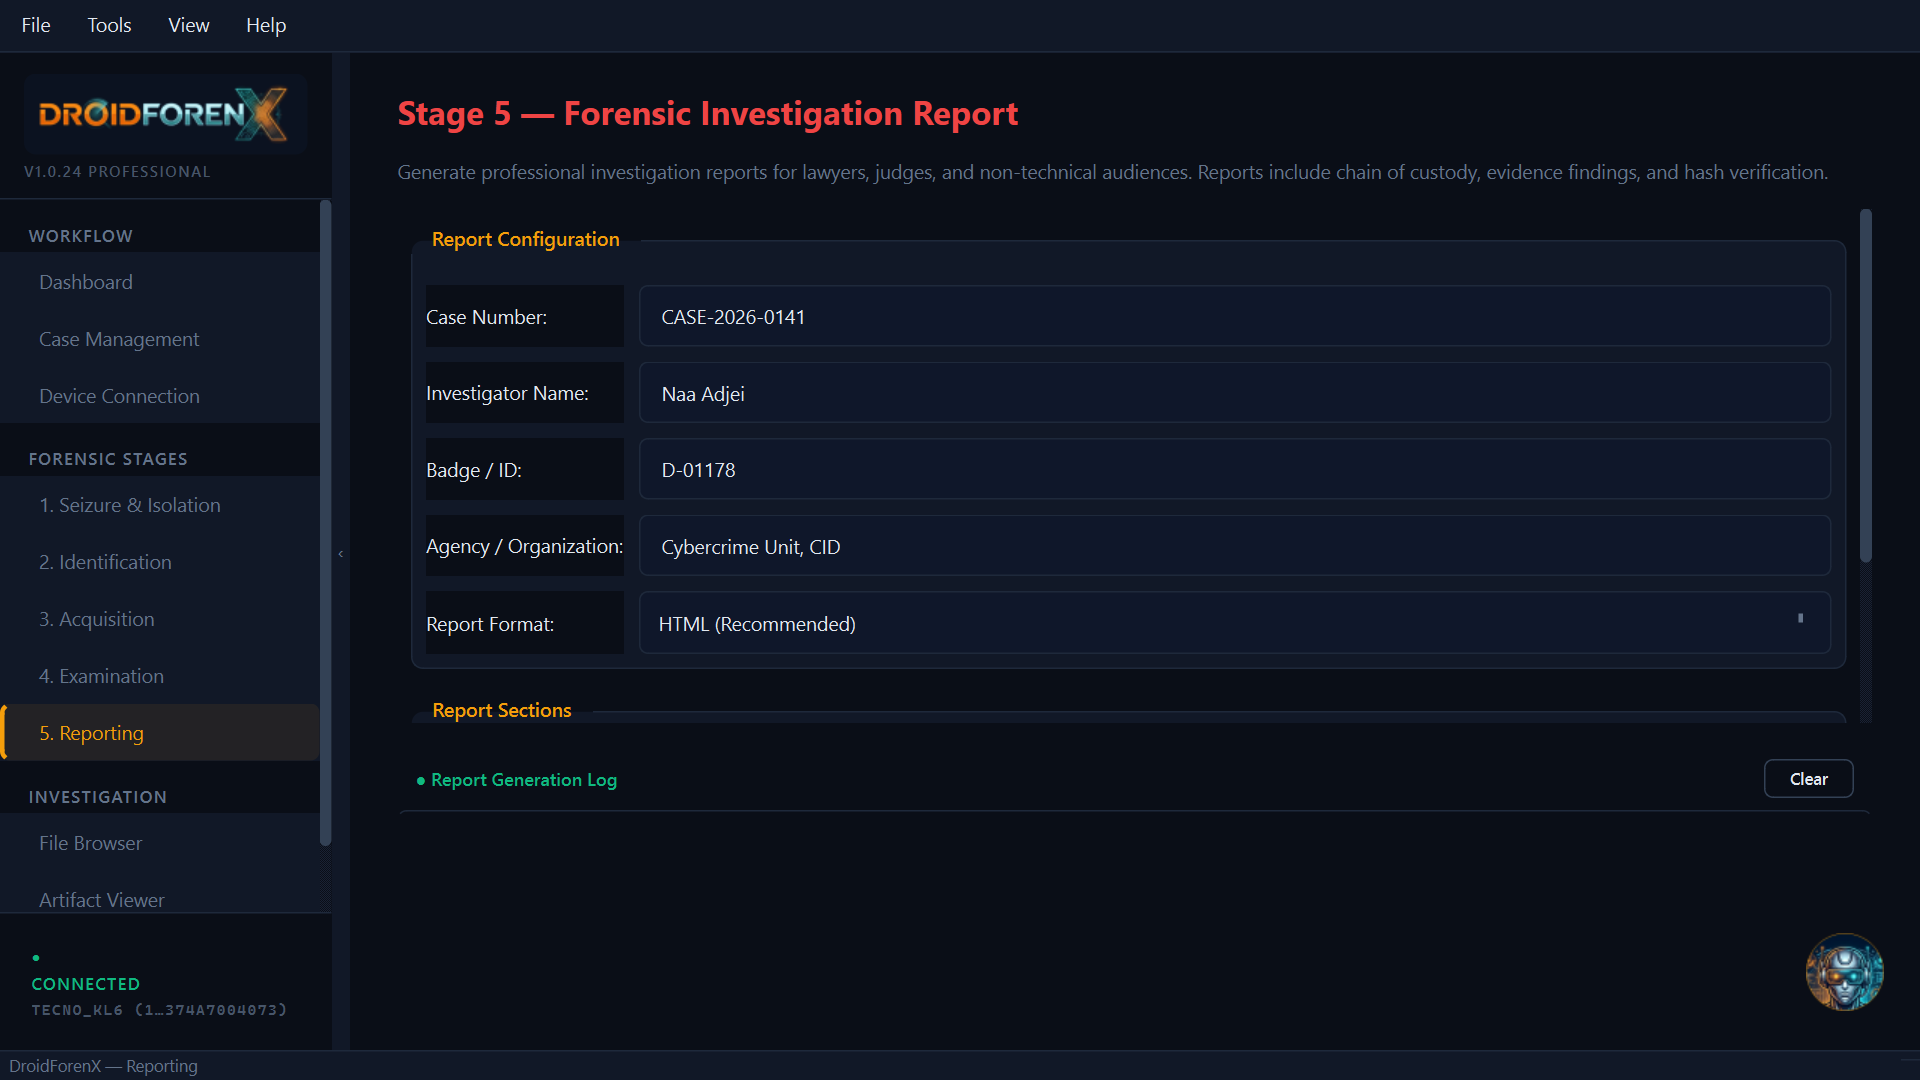
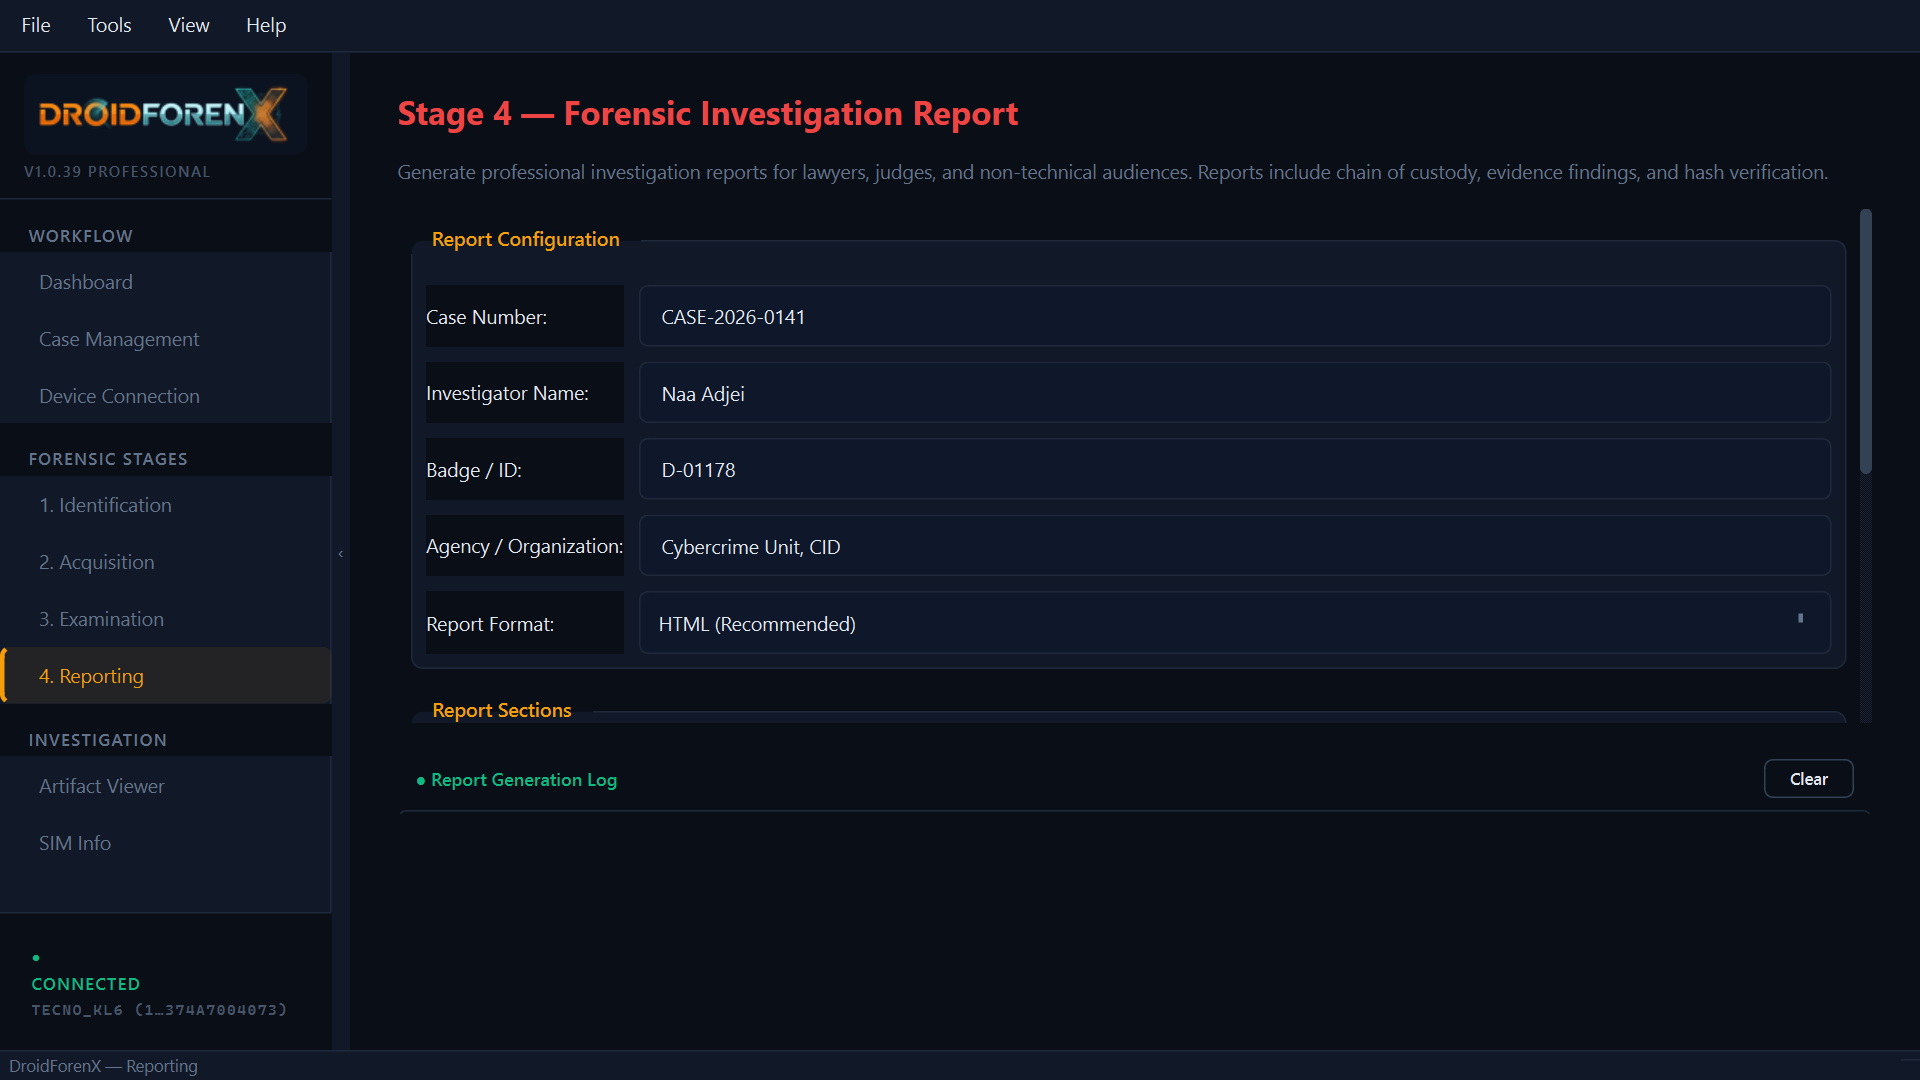
Docs: refresh v1.0.39 acquisition and report screenshots

diff --git a/tools/capture_docs.py b/tools/capture_docs.py
@@ -253,6 +253,17 @@ def capture(window, app, wanted: set[str], with_device: bool, tests_log: Path | 
         pump(app, 0.8)
         save(window, "acquisition")
 
+    def shot_acquisition_actions():
+        go(4)
+        page = window.acquire_page
+        page.level_combo.setCurrentIndex(0)
+        page.hash_combo.setCurrentIndex(0)
+        from PyQt6.QtWidgets import QScrollArea
+        for area in page.findChildren(QScrollArea):
+            area.verticalScrollBar().setValue(area.verticalScrollBar().maximum())
+        pump(app, 0.8)
+        save(window, "acquisition-actions")
+
     def shot_artifacts():
         go(8)
         page = window.artifacts_page
@@ -326,16 +337,31 @@ def capture(window, app, wanted: set[str], with_device: bool, tests_log: Path | 
         pump(app, 0.8)
         save(window, "reporting")
 
+    def shot_report_sections():
+        go(6)
+        page = window.report_page
+        page.case_input.setText("CASE-2026-0141")
+        page.examiner_input.setText("Naa Adjei")
+        page.badge_input.setText("D-01178")
+        page.org_input.setText("Cybercrime Unit, CID")
+        from PyQt6.QtWidgets import QScrollArea
+        for area in page.findChildren(QScrollArea):
+            area.verticalScrollBar().setValue(min(220, area.verticalScrollBar().maximum()))
+        pump(app, 0.8)
+        save(window, "report-sections")
+
     shots.update({
         "dashboard": shot_dashboard,
         "cases": shot_cases,
         "device": shot_device,
         "acquisition": shot_acquisition,
+        "acquisition-actions": shot_acquisition_actions,
         "artifacts": shot_artifacts,
         "sim": shot_sim,
         "gallery": shot_gallery,
         "create-image": shot_create_image,
         "report": shot_report,
+        "report-sections": shot_report_sections,
     })
 
     needs_device = {"device", "acquisition", "artifacts", "sim", "gallery",

diff --git a/README.md b/README.md
@@ -46,11 +46,12 @@ copy, and records an append-only chain of custody for every action.
 
 ## Screenshots
 
-Every frame below is the running application, not a mock-up, captured on
-**25 October 2026** with a **TECNO KL6** (Android 14 / API 34, unrooted)
-attached over ADB. The case is a throwaway demonstration case, seeded into a
-temporary database; the artifact counts, contacts, messages and calls are read
-from the phone. Click an image to open it at full size.
+Every frame below is from the running application, not a mock-up. Device and
+artifact views were captured with a **TECNO KL6** (Android 14 / API 34,
+unrooted) attached over ADB. Other screens use a throwaway demonstration case
+seeded into a temporary database. The Acquisition and Reporting screenshots
+were refreshed for **v1.0.39** on **4 November 2026**; those views do not pull
+personal device content. Click an image to open it at full size.
 
 `tools/capture_docs.py` takes them: it points `database.DB_PATH` at a temporary
 directory, seeds a case, shows the real window and grabs it with
@@ -82,18 +83,25 @@ that produced the result.
 
 **Acquisition** — pick an extraction level and the loaders to run. Level 1 is
 logical (contacts, SMS, calls, calendar, app data, ADB backup); Level 2 adds
-shared storage and carving.
+shared storage and carving. **Capture Screen** sits beside **Create Image** in
+the Acquisition action row. It saves a hashed PNG of the connected handset as a
+finding under Screenshots.
 
 ![Acquisition page with the Level 1 logical profile selected](docs/images/acquisition.png)
+
+The action row is below the extraction checklist; this focused view shows
+**Capture Screen** beside **Create Image**.
+
+![Acquisition action row with Capture Screen beside Create Image](docs/images/acquisition-actions.png)
 
 **Artifact viewer** — what came back, grouped by app and category. This frame
 was taken against the phone: 42,763 artifacts in one pass, including 860 SMS,
 1,403 calls and 2,249 contacts. The call log is a table, so each row carries its
 direction and whether it was answered instead of being folded into a
 conversation thread. Media categories offer a **thumbnail grid** with three tile
-sizes, pulled in the background and cached for display only, and **Capture
-Screen** takes a PNG of whatever is on the handset over `exec-out screencap`,
-hashes it, and files it as a finding under the Screenshots category.
+sizes, pulled in the background and cached for display only. Screen capture is
+available in Acquisition beside **Create Image**, where it takes a PNG of the
+handset over `exec-out screencap`, hashes it, and files it under Screenshots.
 
 ![Artifact viewer reading messages, calls and contacts from the device](docs/images/artifact-viewer.png)
 
@@ -153,9 +161,14 @@ the device layout is in front of you before anything is committed.
 ![Create Image dialog configured for Raw output from a connected device](docs/images/create-image.png)
 
 **Reporting** — a plain-English, court-ready report built from the case's
-preserved artifacts and chain of custody.
+preserved artifacts and chain of custody. The Report Sections preview is
+populated on first open and remains readable in its own table area.
 
 ![Reporting page preview](docs/images/reporting.png)
+
+The focused view shows the visible section descriptions and readiness status.
+
+![Report Sections preview table](docs/images/report-sections.png)
 
 **Tests** — the suite that guards acquisition, hashing, custody, imaging and the
 UI. No device is needed to run it:
